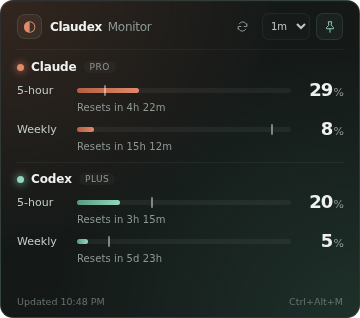
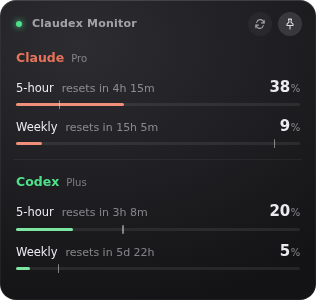
Restyle widget after Backspin

diff --git a/renderer/styles.css b/renderer/styles.css
@@ -1,65 +1,134 @@
+/* Theme follows Backspin: graphite panel, soft round controls, hairline meters. */
 :root {
-  color-scheme: dark;
-  --text: #eef1f0;
-  --muted: #8e9995;
-  --line: #ffffff0d;
-  --claude: #e08a6a;
-  --claude-deep: #b45f43;
-  --codex: #92d8bc;
-  --codex-deep: #569b83;
+  --text: #ececf0;
+  --claude: #e8735a;
+  --codex: #4ee08a;
   --warn: #f2c46d;
-  --danger: #ff8f86;
+  --danger: #ff8a7a;
 }
+
 * { box-sizing: border-box; }
-html, body { height: 100%; }
-body { margin: 0; background: transparent; color: var(--text); font-family: Inter, ui-sans-serif, system-ui, -apple-system, BlinkMacSystemFont, "Segoe UI", sans-serif; -webkit-font-smoothing: antialiased; overflow: hidden; }
 
-.widget { display: flex; flex-direction: column; gap: 10px; height: 100%; padding: 12px 16px 10px; border: 1px solid #ffffff1c; border-radius: 13px; background: radial-gradient(ellipse at 0 0, #33261f 0, transparent 55%), radial-gradient(ellipse at 100% 100%, #1e302a 0, transparent 60%), #141918; box-shadow: inset 0 1px #ffffff06; -webkit-app-region: drag; user-select: none; }
+html, body {
+  margin: 0;
+  height: 100%;
+  overflow: hidden;
+  background: transparent;
+  color: var(--text);
+  font: 12px/1.35 system-ui, -apple-system, "Segoe UI", sans-serif;
+  user-select: none;
+}
 
-.banner { display: flex; align-items: center; gap: 6px; padding-bottom: 9px; border-bottom: 1px solid var(--line); }
-.brand { display: grid; place-items: center; width: 25px; height: 25px; border: 1px solid #ffffff18; border-radius: 8px; color: var(--claude); background: linear-gradient(135deg, #e08a6a14, #92d8bc14); font-size: 15px; line-height: 1; }
-.title { flex: 1; margin-left: 2px; white-space: nowrap; font-size: 12px; font-weight: 650; letter-spacing: -.025em; }
-.title span { color: var(--muted); font-weight: 450; margin-left: 2px; }
+.deck {
+  position: absolute;
+  inset: 0;
+  display: flex;
+  flex-direction: column;
+  gap: 14px;
+  padding: 12px 14px 16px;
+  border-radius: 16px;
+  -webkit-app-region: drag;
+  background: radial-gradient(120% 90% at 25% 15%, #2c2c31, #131315);
+  box-shadow: inset 0 1px 0 rgba(255, 255, 255, .09), inset 0 0 0 1px rgba(255, 255, 255, .05);
+}
 
-.icon-button { display: grid; width: 27px; height: 27px; place-items: center; border: 1px solid transparent; border-radius: 7px; padding: 0; color: var(--muted); background: transparent; cursor: pointer; -webkit-app-region: no-drag; transition: background 150ms, color 150ms; }
-.icon-button:hover { color: var(--text); background: #ffffff12; }
-.icon-button.pinned { color: var(--codex); border-color: #92d8bc20; background: #92d8bc0c; }
-.icon-button.spinning svg { animation: spin 800ms linear infinite; }
+/* ---------- Top bar ---------- */
+
+.top { display: flex; align-items: center; gap: 6px; }
+
+.led {
+  width: 6px;
+  height: 6px;
+  margin: 0 4px 0 2px;
+  border-radius: 50%;
+  background: #3a3a40;
+  transition: background .4s, box-shadow .4s;
+}
+.led.ok { background: var(--codex); box-shadow: 0 0 6px var(--codex); }
+.led.stale { background: var(--warn); box-shadow: 0 0 6px var(--warn); }
+.led.error { background: var(--danger); box-shadow: 0 0 6px var(--danger); }
+
+.name { flex: 1; font-size: 11px; font-weight: 600; letter-spacing: .02em; opacity: .62; }
+
+.ctl {
+  -webkit-app-region: no-drag;
+  display: grid;
+  place-items: center;
+  width: 24px;
+  height: 24px;
+  padding: 0;
+  border: 0;
+  border-radius: 50%;
+  background: rgba(255, 255, 255, .06);
+  color: #dcdce2;
+  opacity: .7;
+  cursor: pointer;
+  transition: background .15s, opacity .15s, transform .1s;
+}
+.ctl:hover { background: rgba(255, 255, 255, .15); opacity: 1; }
+.ctl:active { transform: scale(.9); }
+.ctl svg { width: 12px; height: 12px; }
+.ctl[aria-pressed="true"] { opacity: 1; background: rgba(255, 255, 255, .12); }
+.ctl.spinning svg { animation: spin .8s linear infinite; }
+.ctl:focus-visible { outline: 2px solid rgba(255, 255, 255, .5); outline-offset: 2px; }
 @keyframes spin { to { transform: rotate(360deg); } }
 
-.refresh-control { display: flex; border: 1px solid var(--line); border-radius: 7px; background: #ffffff03; -webkit-app-region: no-drag; }
-.refresh-control select { min-height: 25px; border: 0; border-radius: 7px; padding: 2px 4px; color: #c1cbc6; font: inherit; font-size: 10px; background: transparent; cursor: pointer; }
-.refresh-control option { background: #1c2421; }
-button:focus-visible, select:focus-visible { outline: 2px solid var(--codex); outline-offset: 2px; }
+/* ---------- Providers ---------- */
 
-.provider { display: flex; flex-direction: column; gap: 7px; }
-.provider + .provider { padding-top: 9px; border-top: 1px solid var(--line); }
-.provider-head { display: flex; align-items: center; gap: 7px; min-width: 0; }
-.provider h2 { margin: 0; font-size: 12px; font-weight: 600; letter-spacing: -.01em; }
-.dot { width: 7px; height: 7px; border-radius: 50%; background: var(--accent); box-shadow: 0 0 8px var(--accent); }
-.plan { padding: 1px 6px; border-radius: 999px; color: var(--muted); background: #ffffff08; font-size: 9px; text-transform: uppercase; letter-spacing: .06em; }
-.plan:empty { display: none; }
-.status { flex: 1; min-width: 0; overflow: hidden; text-align: right; white-space: nowrap; text-overflow: ellipsis; color: var(--muted); font-size: 10px; }
-.status.error, .status.stale { color: var(--danger); }
+.claude { --accent: var(--claude); }
+.codex { --accent: var(--codex); }
 
-.claude { --accent: var(--claude); --accent-deep: var(--claude-deep); }
-.codex { --accent: var(--codex); --accent-deep: var(--codex-deep); }
+.provider { display: flex; flex-direction: column; gap: 10px; }
+.provider + .provider { padding-top: 14px; border-top: 1px solid rgba(255, 255, 255, .06); }
 
-.rows { display: flex; flex-direction: column; gap: 7px; }
-.row { display: grid; grid-template-columns: 50px 1fr 42px; grid-template-rows: auto auto; align-items: center; column-gap: 10px; row-gap: 3px; }
-.row-label { color: #c2cbc7; font-size: 11px; font-weight: 500; }
-.row-value { justify-self: end; font-size: 18px; font-weight: 550; font-variant-numeric: tabular-nums; line-height: 1; letter-spacing: -.05em; }
-.row-value small { margin-left: 1px; color: var(--muted); font-size: 11px; font-weight: 450; }
-.row-reset { grid-column: 2 / 4; color: var(--muted); font-size: 10px; letter-spacing: .01em; }
+.provider-head { display: flex; align-items: baseline; gap: 7px; min-width: 0; padding: 0 2px; }
+.provider h2 { margin: 0; font-size: 12.5px; font-weight: 600; color: var(--accent); }
+.plan { font-size: 10px; text-transform: capitalize; opacity: .45; }
+.status { flex: 1; min-width: 0; overflow: hidden; text-align: right; white-space: nowrap; text-overflow: ellipsis; font-size: 10.5px; color: var(--danger); }
 
-.bar { position: relative; height: 5px; border-radius: 999px; background: #ffffff0e; }
-.fill { display: block; height: 100%; border-radius: inherit; background: linear-gradient(90deg, var(--accent-deep), var(--accent)); transition: width 280ms ease-out; }
-.row.high .fill { background: linear-gradient(90deg, #b8893a, var(--warn)); }
-.row.critical .fill { background: linear-gradient(90deg, #c3504a, var(--danger)); }
+.rows { display: flex; flex-direction: column; gap: 10px; }
+
+.row {
+  display: grid;
+  grid-template-columns: auto 1fr auto;
+  align-items: baseline;
+  column-gap: 8px;
+  row-gap: 6px;
+  padding: 0 2px;
+}
+.row-label { font-size: 11.5px; font-weight: 500; }
+.row-reset { font-size: 11px; opacity: .5; }
+.row-value { font-size: 15px; font-weight: 600; font-variant-numeric: tabular-nums; letter-spacing: -.02em; }
+.row-value small { margin-left: 1px; font-size: 10px; font-weight: 500; opacity: .5; }
 .row.high .row-value { color: var(--warn); }
 .row.critical .row-value { color: var(--danger); }
-.pace { position: absolute; top: -3px; width: 2px; height: 11px; margin-left: -1px; border-radius: 1px; background: #ffffff70; }
 
-.footer { display: flex; justify-content: space-between; margin-top: auto; color: #66716d; font-size: 9.5px; }
+.meter {
+  grid-column: 1 / -1;
+  position: relative;
+  height: 3px;
+  border-radius: 2px;
+  background: rgba(255, 255, 255, .08);
+}
+.fill {
+  position: absolute;
+  inset: 0 auto 0 0;
+  border-radius: inherit;
+  background: color-mix(in oklab, var(--accent) 80%, #fff);
+  transition: width .4s ease;
+}
+.row.high .fill { background: var(--warn); }
+.row.critical .fill { background: var(--danger); }
+.pace {
+  position: absolute;
+  top: -3px;
+  width: 1.5px;
+  height: 9px;
+  margin-left: -.75px;
+  border-radius: 1px;
+  background: rgba(255, 255, 255, .45);
+}
 
-@media (prefers-reduced-motion: reduce) { *, *::before, *::after { transition: none !important; animation: none !important; } }
+@media (prefers-reduced-motion: reduce) {
+  *, *::before, *::after { transition: none !important; animation: none !important; }
+}

diff --git a/renderer/app.js b/renderer/app.js
@@ -2,15 +2,10 @@ const bridge = window.claudexMonitor;
 let latest = null;
 
 const els = {
-  interval: document.getElementById("interval"),
+  led: document.getElementById("led"),
   pin: document.getElementById("pin"),
-  refresh: document.getElementById("refresh-now"),
-  updated: document.getElementById("updated")
+  refresh: document.getElementById("refresh-now")
 };
-
-function formatInterval(seconds) {
-  return seconds < 60 ? `${seconds}s` : `${seconds / 60}m`;
-}
 
 function formatDuration(ms) {
   const totalMinutes = Math.max(0, Math.ceil(ms / 60_000));
@@ -23,9 +18,9 @@ function formatDuration(ms) {
 }
 
 function resetLabel(resetsAt, now) {
-  if (!resetsAt) return "Reset time unavailable";
+  if (!resetsAt) return "";
   const remaining = resetsAt - now;
-  return remaining <= 0 ? "Resetting now" : `Resets in ${formatDuration(remaining)}`;
+  return remaining <= 0 ? "resetting now" : `resets in ${formatDuration(remaining)}`;
 }
 
 // Share of the window already elapsed; used to show whether usage is ahead of pace.
@@ -45,9 +40,8 @@ function renderProvider(id, source, now) {
   const section = document.getElementById(id);
   section.querySelector(".plan").textContent = source.plan ? source.plan : "";
   const status = section.querySelector(".status");
-  status.textContent = source.status === "loading" ? "Loading…" : source.error ?? "";
+  status.textContent = source.error ?? "";
   status.title = source.error ?? "";
-  status.className = `status ${source.status}`;
 
   const rows = section.querySelector(".rows");
   rows.replaceChildren(...source.windows.map((window) => renderRow(window, now)));
@@ -63,35 +57,48 @@ function renderRow(window, now) {
   label.className = "row-label";
   label.textContent = window.label;
 
-  const value = document.createElement("strong");
+  const reset = document.createElement("span");
+  reset.className = "row-reset";
+  reset.textContent = resetLabel(window.resetsAt, now);
+
+  const value = document.createElement("span");
   value.className = "row-value";
   value.innerHTML = `${Math.round(window.usedPercent)}<small>%</small>`;
 
-  const bar = document.createElement("div");
-  bar.className = "bar";
-  bar.setAttribute("role", "progressbar");
-  bar.setAttribute("aria-label", `${window.label} used`);
-  bar.setAttribute("aria-valuemin", "0");
-  bar.setAttribute("aria-valuemax", "100");
-  bar.setAttribute("aria-valuenow", String(Math.round(percent)));
+  const meter = document.createElement("div");
+  meter.className = "meter";
+  meter.setAttribute("role", "progressbar");
+  meter.setAttribute("aria-label", `${window.label} used`);
+  meter.setAttribute("aria-valuemin", "0");
+  meter.setAttribute("aria-valuemax", "100");
+  meter.setAttribute("aria-valuenow", String(Math.round(percent)));
   const fill = document.createElement("span");
   fill.className = "fill";
   fill.style.width = `${percent}%`;
-  bar.append(fill);
+  meter.append(fill);
   if (elapsed !== null) {
     const marker = document.createElement("span");
     marker.className = "pace";
     marker.style.left = `${elapsed}%`;
     marker.title = `${Math.round(elapsed)}% of the window has passed`;
-    bar.append(marker);
+    meter.append(marker);
   }
 
-  const reset = document.createElement("span");
-  reset.className = "row-reset";
-  reset.textContent = resetLabel(window.resetsAt, now);
-
-  row.append(label, bar, value, reset);
+  row.append(label, reset, value, meter);
   return row;
+}
+
+// The LED sums up both providers: green when fresh, amber when showing old figures, red when empty.
+function renderLed() {
+  const statuses = [latest.claude.status, latest.codex.status];
+  const state = statuses.includes("error") ? "error"
+    : statuses.includes("stale") ? "stale"
+    : statuses.every((status) => status === "ok") ? "ok" : "";
+  els.led.className = `led ${state}`;
+  els.led.title = latest.updatedAt
+    ? `Updated ${new Date(latest.updatedAt).toLocaleTimeString([], { hour: "2-digit", minute: "2-digit" })}`
+    : "Loading…";
+  els.led.setAttribute("aria-label", els.led.title);
 }
 
 function render() {
@@ -99,9 +106,7 @@ function render() {
   const now = Date.now();
   renderProvider("claude", latest.claude, now);
   renderProvider("codex", latest.codex, now);
-  els.updated.textContent = latest.updatedAt
-    ? `Updated ${new Date(latest.updatedAt).toLocaleTimeString([], { hour: "2-digit", minute: "2-digit" })}`
-    : "Loading…";
+  renderLed();
 }
 
 function update(state) {
@@ -110,28 +115,15 @@ function update(state) {
 }
 
 function setPinned(enabled) {
-  els.pin.classList.toggle("pinned", enabled);
   els.pin.setAttribute("aria-pressed", String(enabled));
   els.pin.title = enabled ? "Always on top" : "Keep on top";
 }
 
 async function init() {
-  const settings = await bridge.getSettings();
-  els.interval.replaceChildren(...settings.refreshOptions.map((seconds) => {
-    const option = document.createElement("option");
-    option.value = String(seconds);
-    option.textContent = formatInterval(seconds);
-    option.selected = seconds === settings.refreshSeconds;
-    return option;
-  }));
-  setPinned(settings.alwaysOnTop);
+  setPinned((await bridge.getSettings()).alwaysOnTop);
 
-  els.interval.addEventListener("change", async () => {
-    const seconds = await bridge.setRefresh(Number(els.interval.value));
-    els.interval.value = String(seconds);
-  });
   els.pin.addEventListener("click", async () => {
-    setPinned(await bridge.setAlwaysOnTop(!els.pin.classList.contains("pinned")));
+    setPinned(await bridge.setAlwaysOnTop(els.pin.getAttribute("aria-pressed") !== "true"));
   });
   els.refresh.addEventListener("click", async () => {
     els.refresh.classList.add("spinning");

diff --git a/renderer/index.html b/renderer/index.html
@@ -7,29 +7,25 @@
   <link rel="stylesheet" href="styles.css">
 </head>
 <body>
-  <main class="widget" aria-label="Claude and Codex usage">
-    <header class="banner">
-      <span class="brand" aria-hidden="true">◐</span>
-      <span class="title">Claudex <span>Monitor</span></span>
-      <button id="refresh-now" class="icon-button" type="button" aria-label="Refresh now" title="Refresh now">
-        <svg width="13" height="13" viewBox="0 0 24 24" fill="none" stroke="currentColor" stroke-width="1.8" stroke-linecap="round" aria-hidden="true"><path d="M20 7v5h-5M4 17v-5h5"/><path d="M6.1 7a7 7 0 0 1 11.6-1L20 9M4 15l2.3 3A7 7 0 0 0 18 17"/></svg>
+  <main id="deck" class="deck" aria-label="Claude and Codex usage">
+    <header class="top">
+      <span id="led" class="led" role="status"></span>
+      <span class="name">Claudex Monitor</span>
+      <button id="refresh-now" class="ctl" type="button" aria-label="Refresh now" title="Refresh now">
+        <svg viewBox="0 0 16 16" aria-hidden="true"><path d="M13.5 3v3.5H10M2.5 13V9.5H6" fill="none" stroke="currentColor" stroke-width="1.5" stroke-linecap="round" stroke-linejoin="round"/><path d="M3.6 6a4.8 4.8 0 0 1 9-1.2l.9 1.7M12.4 10a4.8 4.8 0 0 1-9 1.2l-.9-1.7" fill="none" stroke="currentColor" stroke-width="1.5" stroke-linecap="round"/></svg>
       </button>
-      <label class="refresh-control" title="Refresh interval">
-        <select id="interval" aria-label="Refresh interval"></select>
-      </label>
-      <button id="pin" class="icon-button pin" type="button" aria-pressed="true" aria-label="Always on top" title="Always on top">
-        <svg width="14" height="14" viewBox="0 0 24 24" fill="none" stroke="currentColor" stroke-width="1.6" stroke-linecap="round" stroke-linejoin="round" aria-hidden="true"><path d="m9 3 6 0-1 6 4 4v2H6v-2l4-4-1-6ZM12 15v6"/></svg>
+      <button id="pin" class="ctl" type="button" aria-pressed="true" aria-label="Always on top" title="Always on top">
+        <svg viewBox="0 0 16 16" aria-hidden="true"><path d="M6 1.5h4l-.7 4 2.7 2.7V10H4V8.2l2.7-2.7zM8 10v4.5" fill="none" stroke="currentColor" stroke-width="1.4" stroke-linecap="round" stroke-linejoin="round"/></svg>
       </button>
     </header>
     <section class="provider claude" id="claude" aria-label="Claude usage">
-      <div class="provider-head"><span class="dot" aria-hidden="true"></span><h2>Claude</h2><span class="plan"></span><span class="status" role="status"></span></div>
+      <div class="provider-head"><h2>Claude</h2><span class="plan"></span><span class="status"></span></div>
       <div class="rows"></div>
     </section>
     <section class="provider codex" id="codex" aria-label="Codex usage">
-      <div class="provider-head"><span class="dot" aria-hidden="true"></span><h2>Codex</h2><span class="plan"></span><span class="status" role="status"></span></div>
+      <div class="provider-head"><h2>Codex</h2><span class="plan"></span><span class="status"></span></div>
       <div class="rows"></div>
     </section>
-    <footer class="footer"><span id="updated">Loading…</span><span class="hint">Ctrl+Alt+M</span></footer>
   </main>
   <script src="app.js"></script>
 </body>

diff --git a/README.md b/README.md
@@ -9,7 +9,8 @@ A small desktop widget that shows your **Claude Code** and **Codex** usage limit
 - 5-hour and weekly usage for both, with reset countdowns
 - The tick on each bar shows how much of the window has passed. If the bar is past the tick, you're using it up early
 - Bars turn amber at 70% and red at 90%
-- Stays on top, lives in the tray, and **Ctrl+Alt+M** shows or hides it
+- The light top left is green when both are up to date, amber when showing old figures, red when a source fails
+- Stays on top, lives in the tray (right-click it to change how often it refreshes), and **Ctrl+Alt+M** shows or hides it
 
 ## Run it
 
